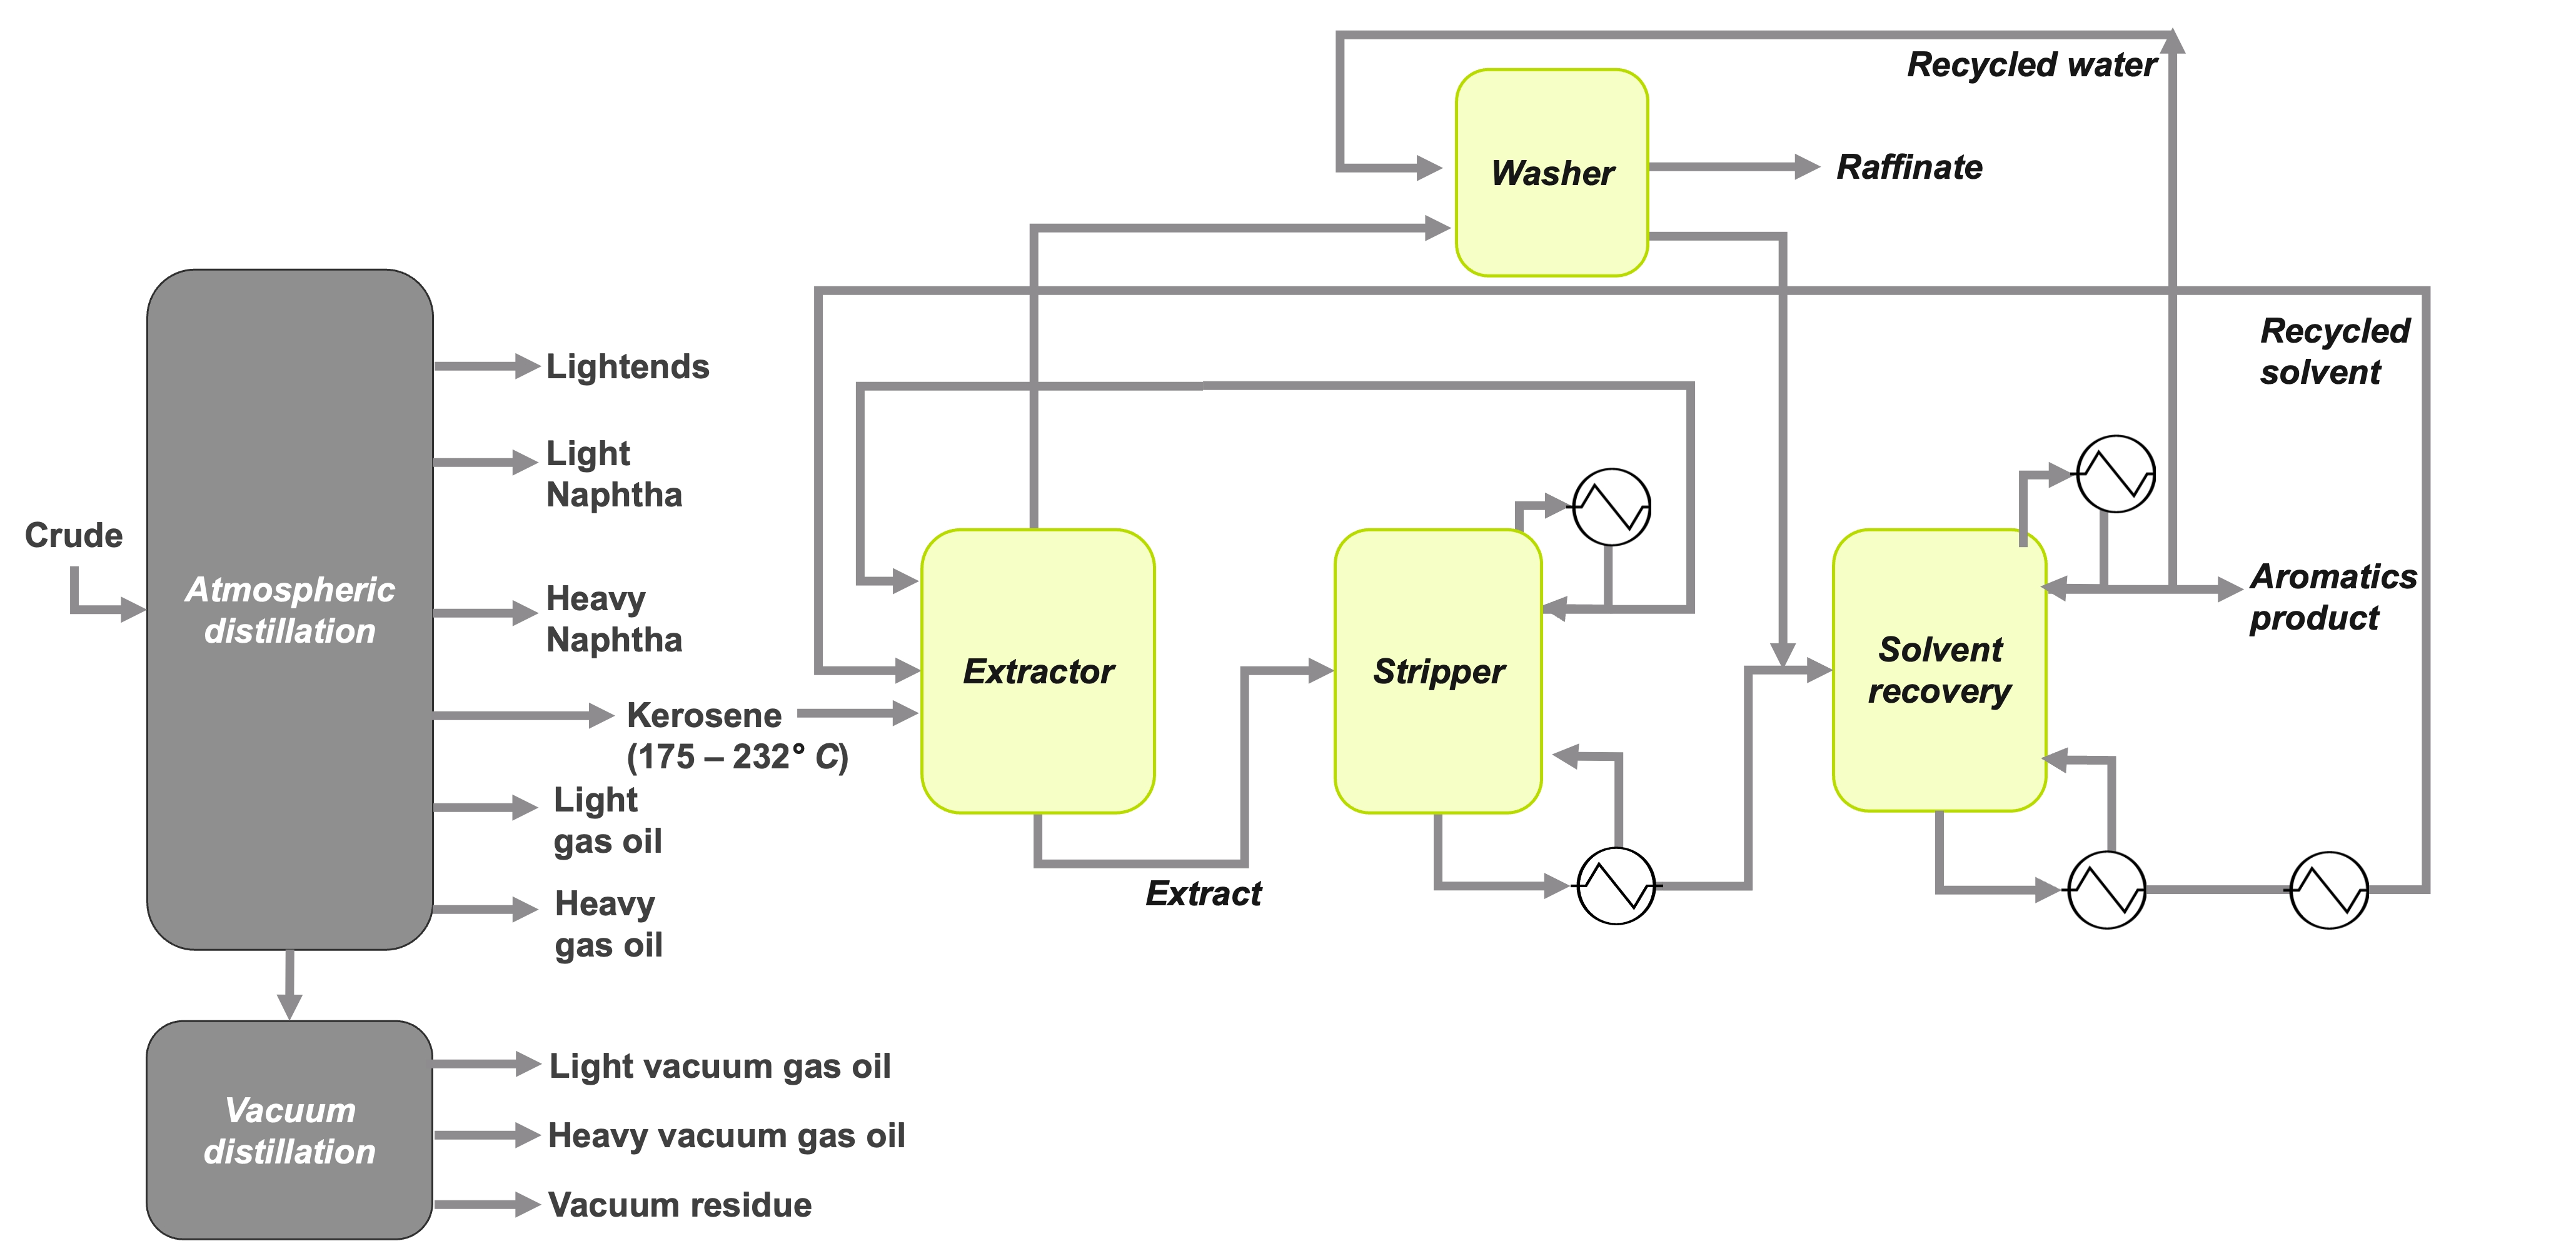
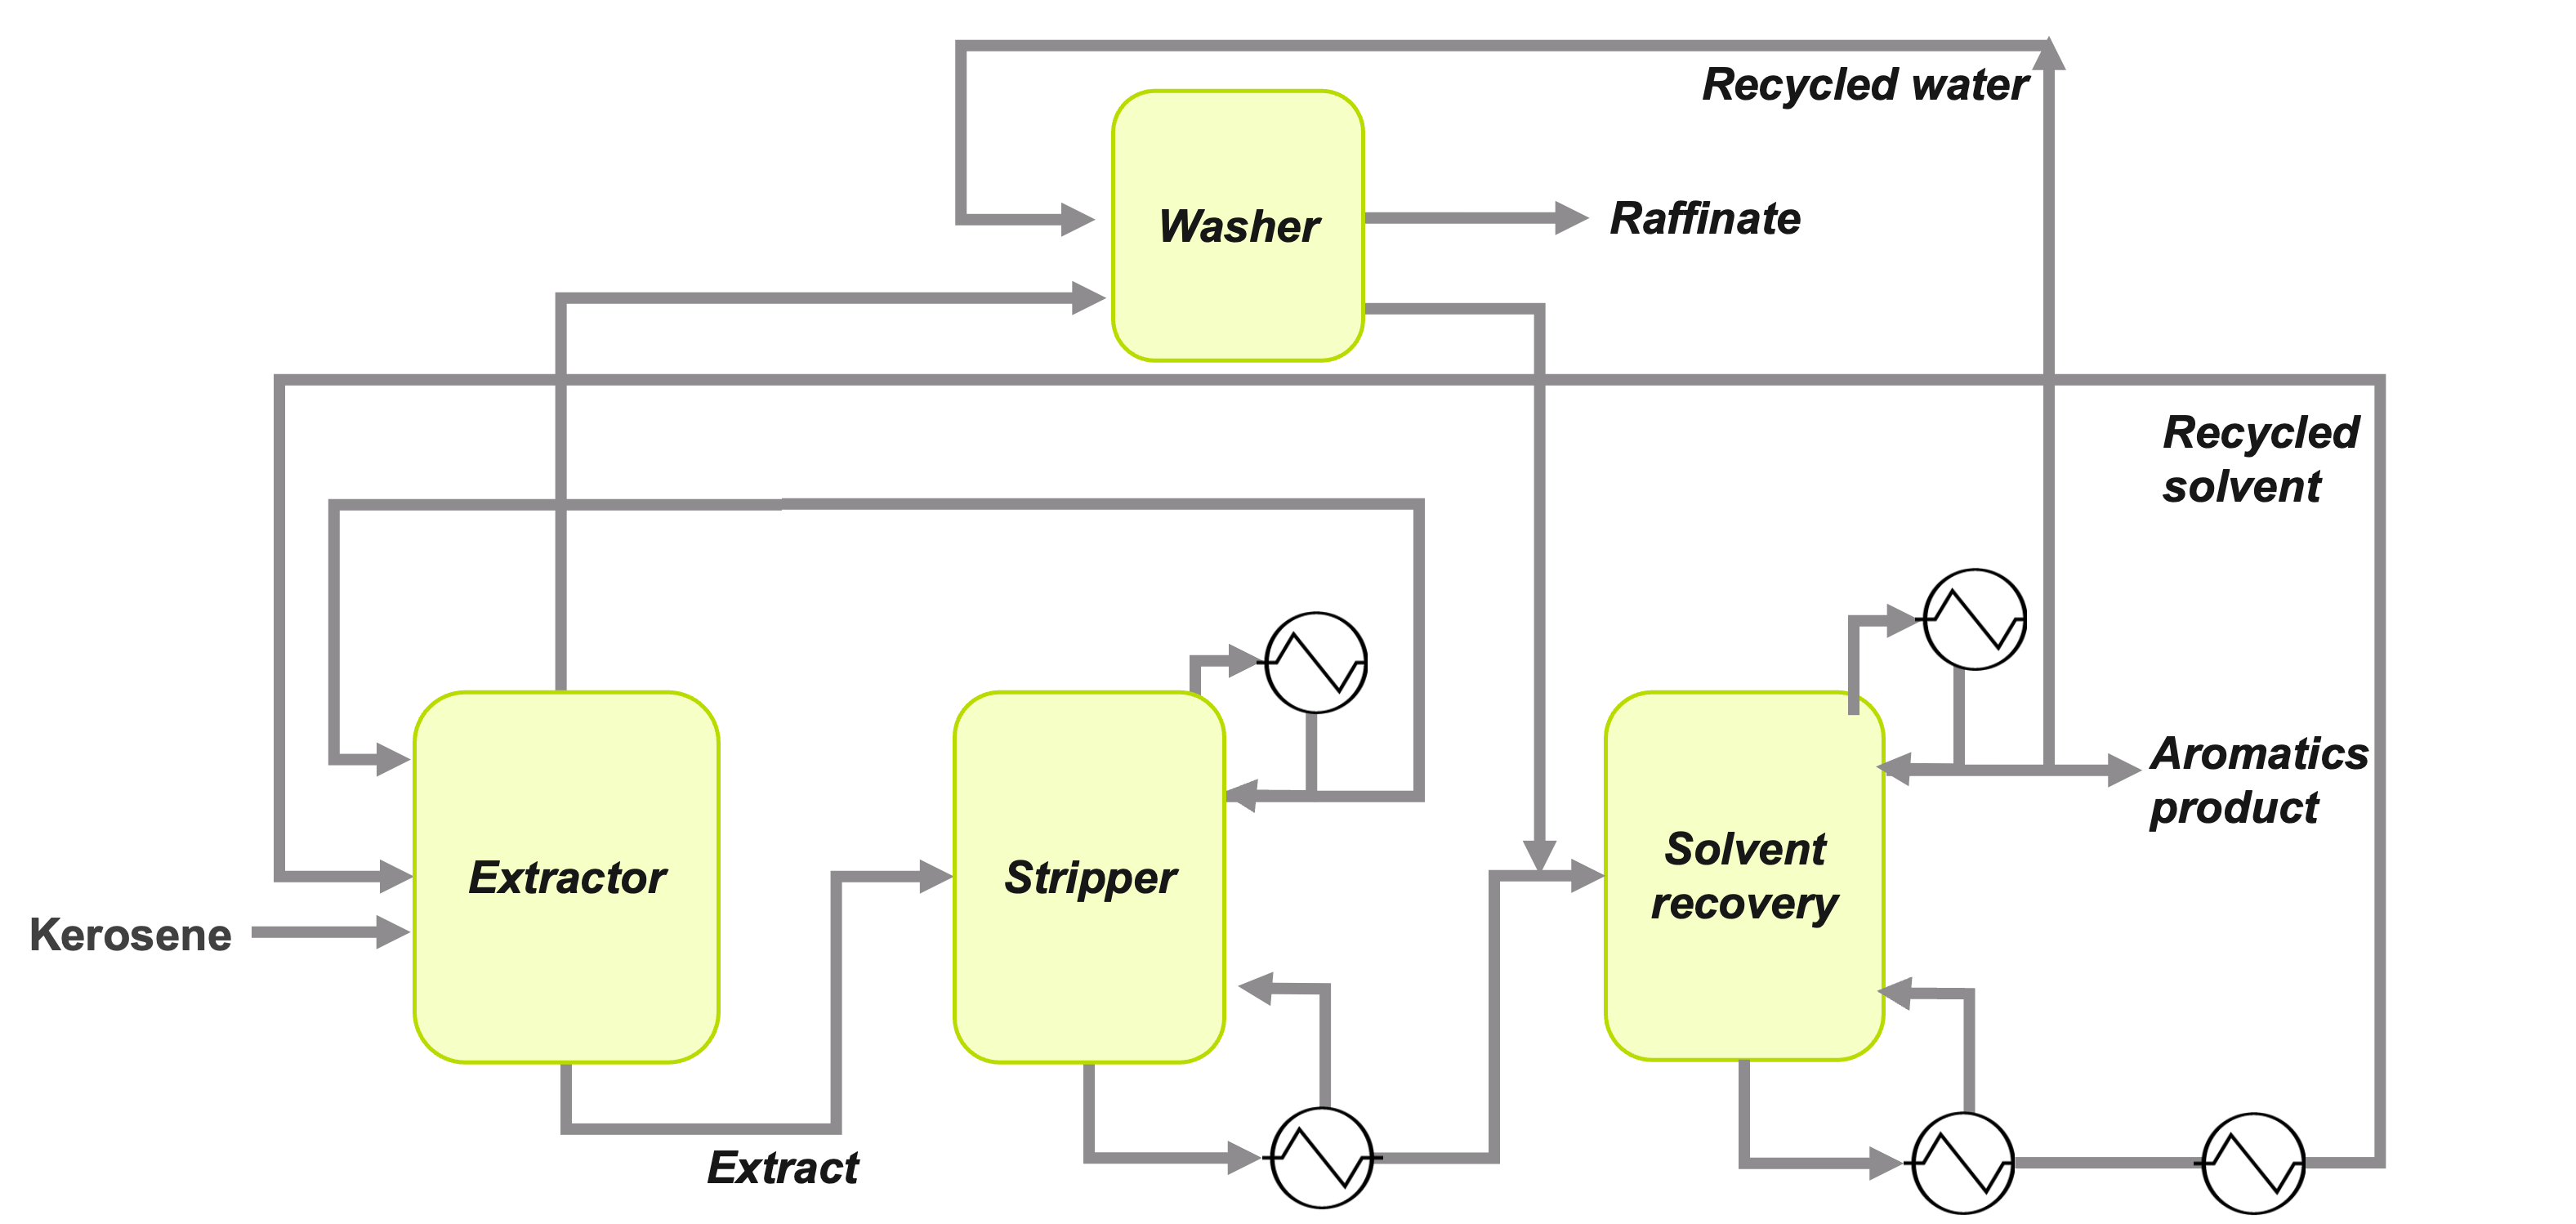
Update hydrotreatment/solvent_extraction images; display side-by-side with boxes; aesthetic numbering (① ②); bigger header fonts; remove plane GIF

diff --git a/index.html b/index.html
@@ -11,62 +11,25 @@
     <div class="container header-inner">
       <div style="display: flex; justify-content: space-between; align-items: flex-start; width: 100%;">
         <div style="flex: 1;">
-          <h1 class="name" style="margin-bottom: 4px;">Tara Housen</h1>
-          <p class="tagline" style="margin: 0; font-size: 13px; color: #666;">Public portfolio • MIT Aeronautics and Astronautics</p>
+          <h1 class="name" style="margin-bottom: 4px; font-size: 28px;">Tara Housen</h1>
+          <p class="tagline" style="margin: 0; font-size: 16px; color: #666;">Public portfolio • MIT Aeronautics and Astronautics</p>
         </div>
         <nav class="main-nav" aria-label="Main" style="flex: 1; text-align: right;">
           <ul style="justify-content: flex-end;">
-            <li><a href="#project-hero">Overview</a></li>
-            <li><a href="#about">About</a></li>
-            <li><a href="#contact">Contact</a></li>
+            <li><a href="#project-hero" style="font-size: 15px;">Overview</a></li>
+            <li><a href="#about" style="font-size: 15px;">About</a></li>
+            <li><a href="#contact" style="font-size: 15px;">Contact</a></li>
           </ul>
         </nav>
       </div>
       <div style="border-top: 2px solid rgba(184, 168, 240, 0.4); padding-top: 16px; margin-top: 16px;">
-        <h2 style="margin: 0; font-size: 32px; color: #333; font-weight: 600; letter-spacing: -0.5px;">Cost Benefit Analysis of Low Aromatic Fuels</h2>
+        <h2 style="margin: 0; font-size: 40px; color: #333; font-weight: 600; letter-spacing: -0.5px;">Cost Benefit Analysis of Low Aromatic Fuels</h2>
       </div>
     </div>
   </header>
 
   <main class="container">
     <section id="project-hero" class="section">
-      <!-- Contrail aesthetic: plane with trail -->
-      <svg width="100%" height="40" viewBox="0 0 800 40" style="margin-bottom: 16px;" preserveAspectRatio="none">
-        <defs>
-          <style>
-            @keyframes plane-move {
-              0% { transform: translateX(-100px); }
-              100% { transform: translateX(800px); }
-            }
-            @keyframes trail-fade {
-              0% { opacity: 0.8; }
-              50% { opacity: 0.4; }
-              100% { opacity: 0; }
-            }
-            .plane { animation: plane-move 5s linear infinite; }
-            .trail { animation: trail-fade 2s ease-out; }
-          </style>
-          <filter id="glow" x="-50%" y="-50%" width="200%" height="200%">
-            <feGaussianBlur stdDeviation="1" result="coloredBlur"/>
-            <feMerge>
-              <feMergeNode in="coloredBlur"/>
-              <feMergeNode in="SourceGraphic"/>
-            </feMerge>
-          </filter>
-        </defs>
-        <!-- Animated plane + trail -->
-        <g class="plane">
-          <!-- Trail behind plane -->
-          <path class="trail" d="M -20 20 Q -40 15 -60 20 Q -80 25 -100 20" stroke="#b8a8f0" stroke-width="1.5" fill="none" opacity="0.6" filter="url(#glow)"/>
-          <!-- Plane -->
-          <g>
-            <polygon points="0,18 8,22 0,26 -8,22" fill="#7c3aed" stroke="#333" stroke-width="0.5"/>
-            <line x1="-2" y1="22" x2="-8" y2="22" stroke="#333" stroke-width="0.5"/>
-            <line x1="2" y1="22" x2="8" y2="22" stroke="#333" stroke-width="0.5"/>
-          </g>
-        </g>
-      </svg>
-      
       <div class="problem-opportunity" style="display: flex; gap: 40px; margin: 24px 0;">
         <!-- Problem Section -->
         <div style="flex: 1;">
@@ -94,15 +57,28 @@
     <section id="aromatics-details" class="section">
       <h2>Aromatics Removal Techniques</h2>
       
-      <!-- Hydrotreatment Diagram -->
-      <h3>1. Hydrotreatment</h3>
-      <p>Catalytic process to remove aromatics using hydrogen at elevated temperature and pressure.</p>
-      <img src="assets/images/hydrotreatment.png" alt="Hydrotreatment diagram" style="width:500px;height:auto;margin:12px 0;border-radius:6px;"/>
-
-      <!-- Solvent Extraction Diagram -->
-      <h3>2. Solvent Extraction</h3>
-      <p>Selective dissolution of aromatics using organic solvents; aromatics preferentially dissolve.</p>
-      <img src="assets/images/solvent_extraction.png" alt="Solvent extraction diagram" style="width:500px;height:auto;margin:12px 0;border-radius:6px;"/>
+      <!-- Side-by-side diagrams with boxes -->
+      <div style="display: flex; gap: 32px; margin: 24px 0;">
+        <!-- Hydrotreatment -->
+        <div style="flex: 1; border: 2px solid #b8a8f0; border-radius: 12px; padding: 20px; background: rgba(248, 245, 255, 0.5);">
+          <div style="display: flex; align-items: center; margin-bottom: 12px;">
+            <span style="display: inline-flex; align-items: center; justify-content: center; width: 32px; height: 32px; background: #7c3aed; color: white; border-radius: 50%; font-weight: 700; font-size: 18px; margin-right: 12px;">①</span>
+            <h3 style="margin: 0; color: #333; font-size: 20px;">Hydrotreatment</h3>
+          </div>
+          <p style="font-size: 13px; color: #666; margin-bottom: 12px;">Catalytic process to remove aromatics using hydrogen at elevated temperature and pressure.</p>
+          <img src="assets/images/hydrotreatment.png" alt="Hydrotreatment diagram" style="width:100%;height:auto;border-radius:8px;"/>
+        </div>
+        
+        <!-- Solvent Extraction -->
+        <div style="flex: 1; border: 2px solid #b8a8f0; border-radius: 12px; padding: 20px; background: rgba(248, 245, 255, 0.5);">
+          <div style="display: flex; align-items: center; margin-bottom: 12px;">
+            <span style="display: inline-flex; align-items: center; justify-content: center; width: 32px; height: 32px; background: #7c3aed; color: white; border-radius: 50%; font-weight: 700; font-size: 18px; margin-right: 12px;">②</span>
+            <h3 style="margin: 0; color: #333; font-size: 20px;">Solvent Extraction</h3>
+          </div>
+          <p style="font-size: 13px; color: #666; margin-bottom: 12px;">Selective dissolution of aromatics using organic solvents; aromatics preferentially dissolve.</p>
+          <img src="assets/images/solvent_extraction.png" alt="Solvent extraction diagram" style="width:100%;height:auto;border-radius:8px;"/>
+        </div>
+      </div>
     </section>
 
     <section id="about" class="section">